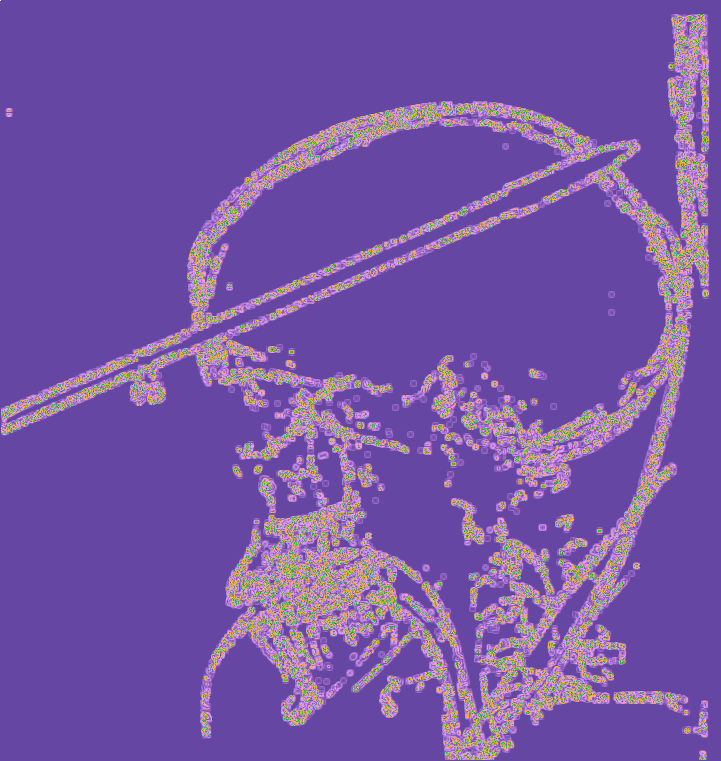
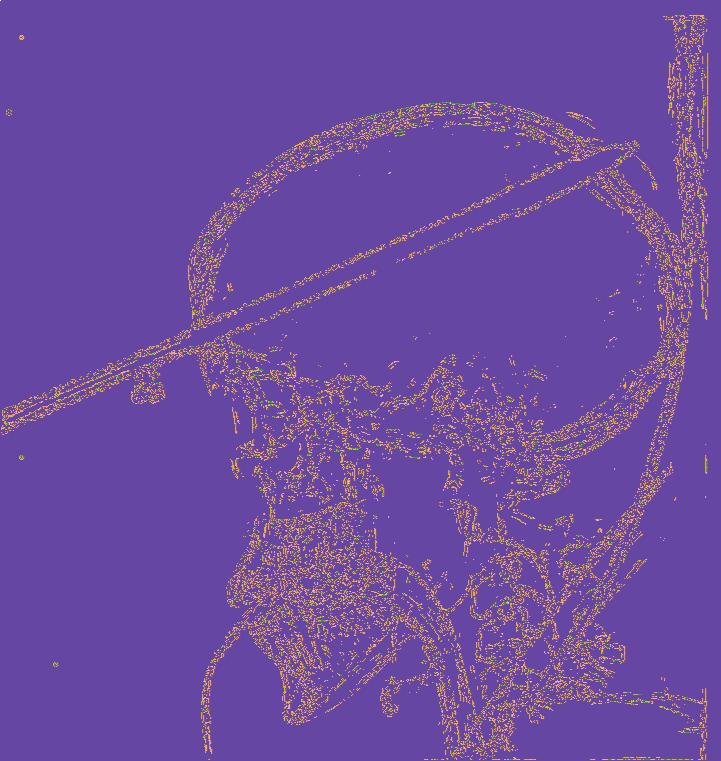
SGSC

Changed region(s): [[0.0, 0.0, 1.0, 1.0], [0.9764, 0.6045, 1.0, 0.6347]]

diff --git a/1course.c b/1course.c
@@ -160,17 +160,16 @@ int main() {
     char* image_0 = (char*)malloc(w*h*sizeof(char));
     char* image_1 = (char*)malloc(w*h*sizeof(char));
     char* image_2 = (char*)malloc(w*h*sizeof(char));
-    char* image_3 = (char*)malloc(w*h*sizeof(char));
+    //char* image_3 = (char*)malloc(w*h*sizeof(char));
     //char* image_4 = (char*)malloc(w*h*sizeof(char));
    // char* image_5 = (char*)malloc(w*h*sizeof(char));
    // char* image_6 = (char*)malloc(w*h*sizeof(char));
     char* data = (char*)malloc(n*w*h*sizeof(char));
 
     Sobel(image, image_0, w, h);
-    preparation(image_0, w, h);
-    Sobel(image_0, image_2, w, h);
-    Gauss(image_2, image_3, w, h);
-    Sobel(image_3, image_1, w, h);
+    Gauss(image_0, image_2, w, h);
+    Sobel(image_2, image_1, w, h);
+    preparation(image_1, w, h);
     colouring(image_1, data, w, h, n);
   /*  int* comps = (int*)malloc((n*w*h)*sizeof(int));
     for (i=0; i < w*h; i++) comps[i] = 0;
